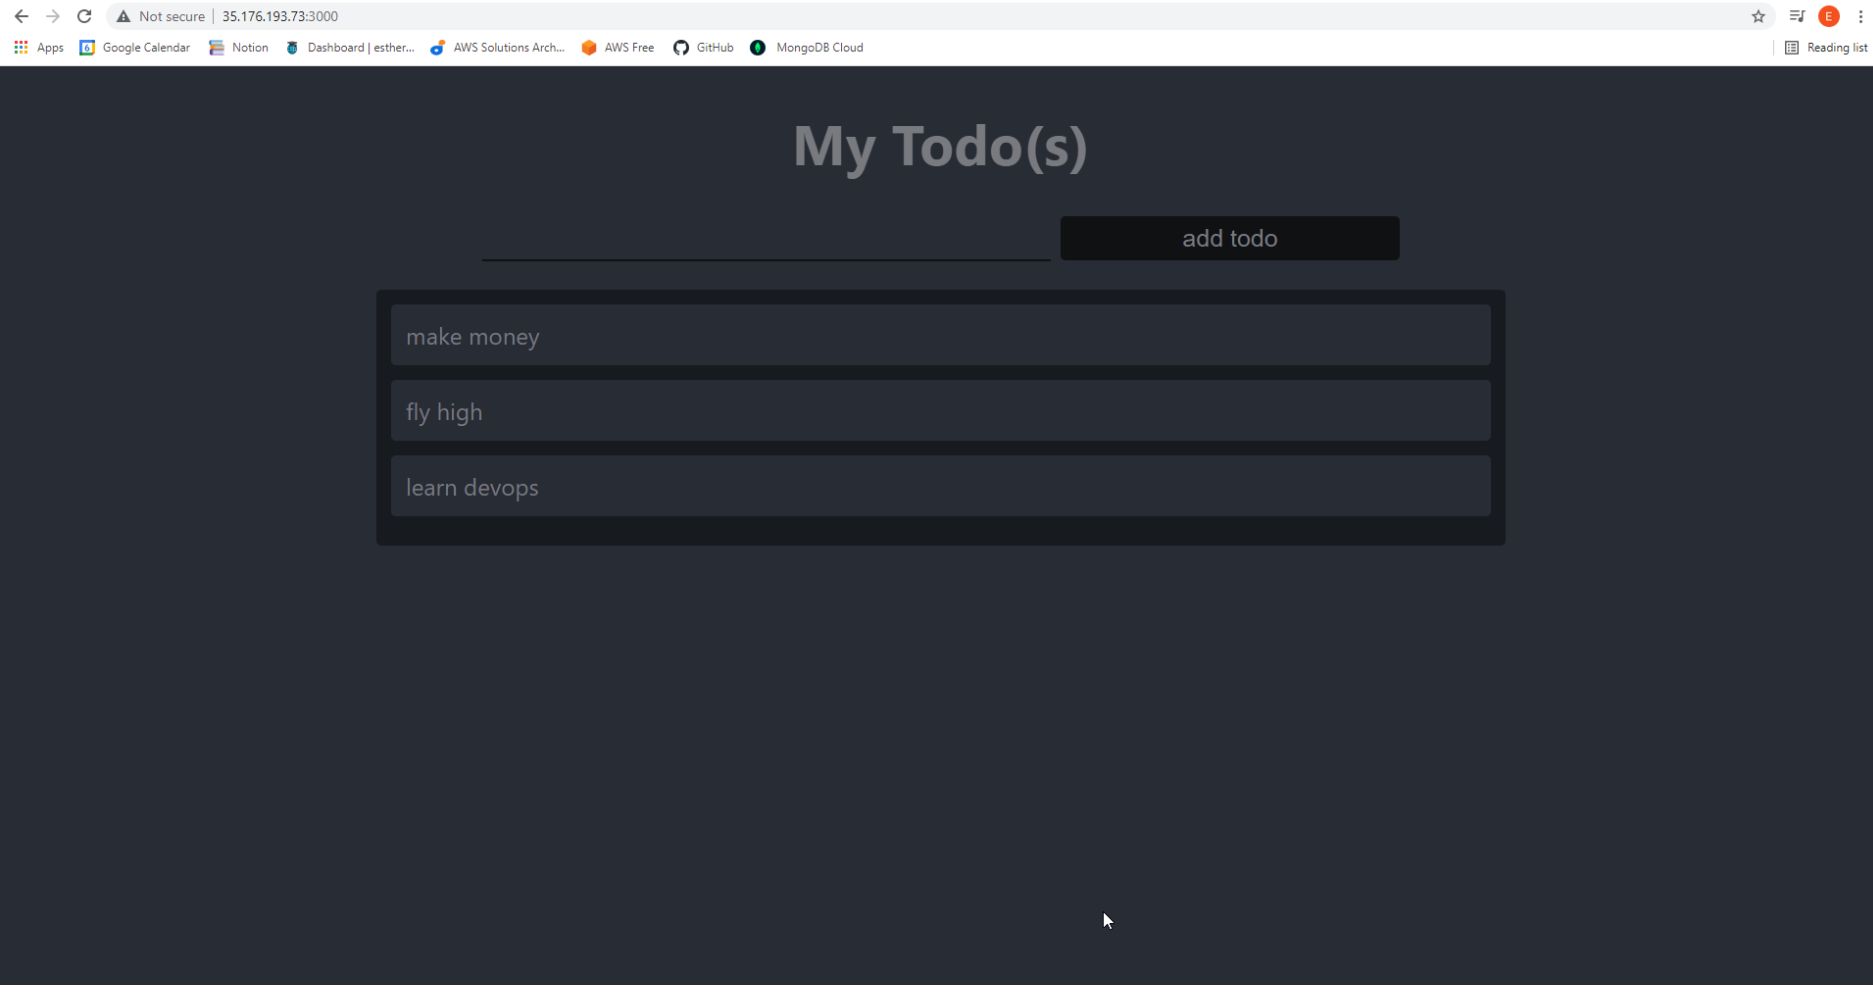
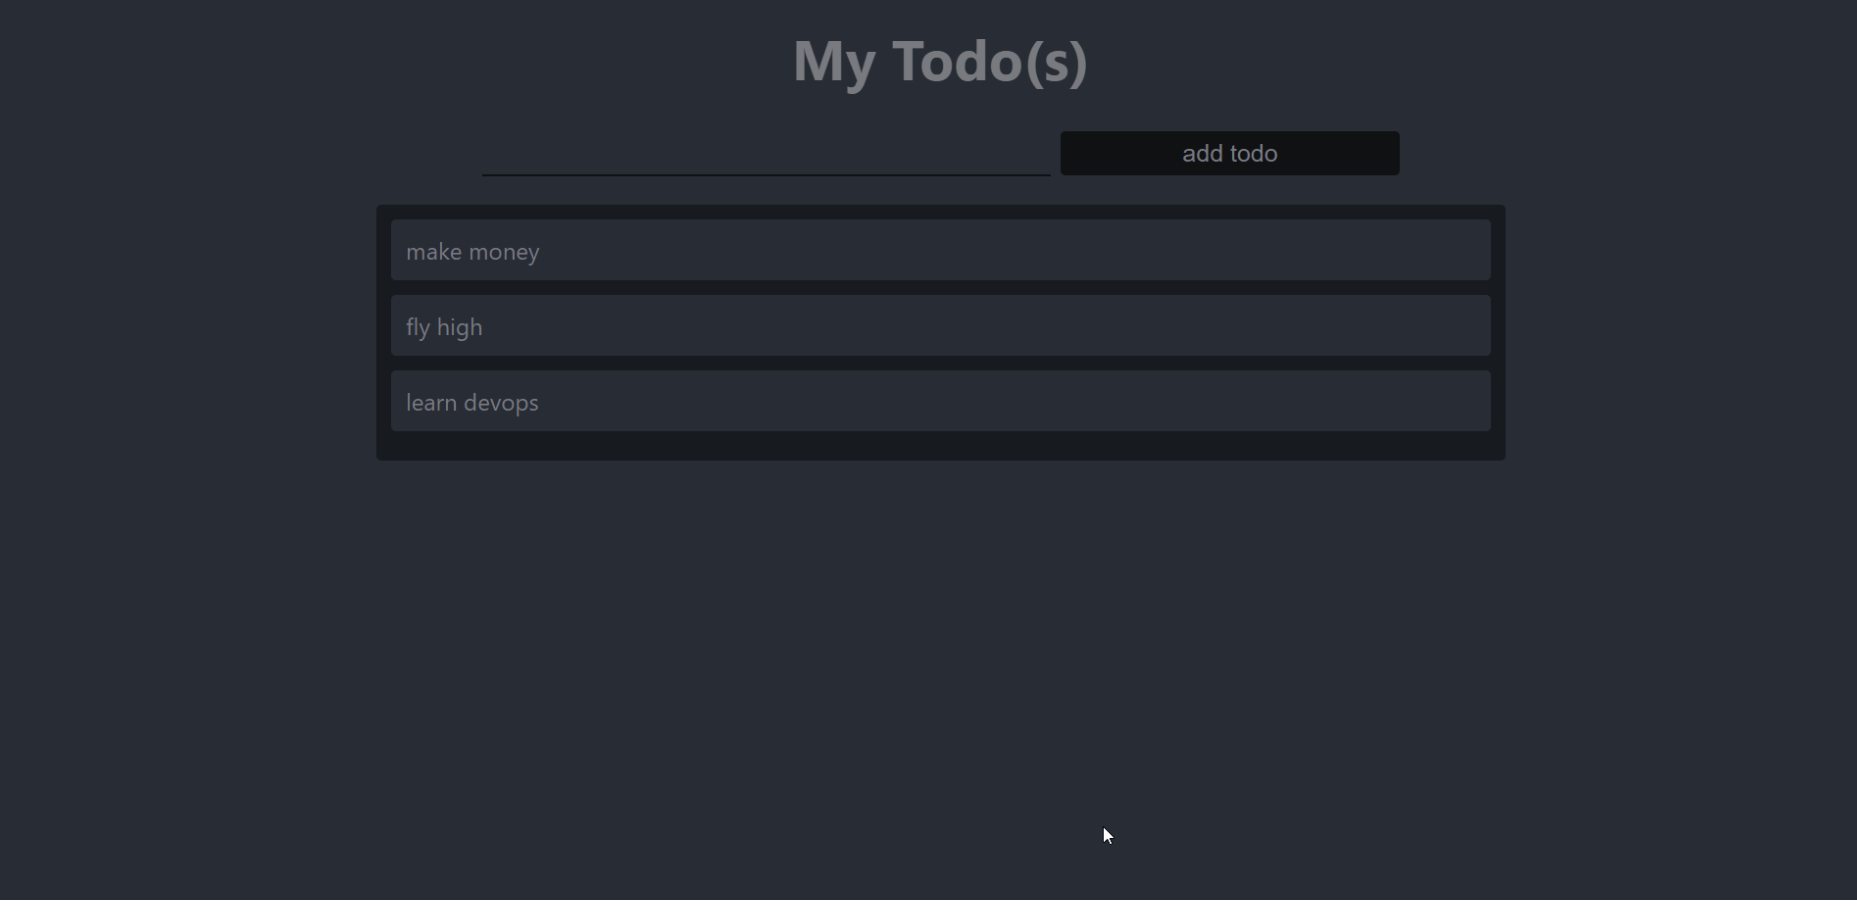
Writing Project 3

diff --git a/Project-3/Project3.md b/Project-3/Project3.md
@@ -59,6 +59,7 @@ npm init
 ```
 
 *Screenshot below*  
+
 ![Pic7a](./images/Pic7a.png)
 
 
@@ -73,6 +74,7 @@ created a file index.js with the command and confirmed that it was made with the
 Installed the dotenv module: npm install dotenv
 
 *Screenshot below*
+
 ![Pic8a](./images/Pic8a.png)
 
 Code below was added into index.js file:
@@ -112,9 +114,11 @@ I confirmed the server was working by running command: node index.js
 created an inbound rule to open TCP port 5000.
 
 *Screenshot below*
+
 ![Pic1a](./images/Pic1a.png)
 
 *Accessed my server’s Public IP on my browser*
+
 ![Pic2a](./images/Pic2a.png)
 
 For each task, I created routes that will define various endpoints that the To-do app will depend on. 
@@ -156,6 +160,7 @@ Due to the app making use of Mongodb, which is a NoSQL database, I created a mod
  installed Mongoose in the Todo Directory: npm install mongoose
 
 *Screenshot below*
+
 ![Pic13a](./images/Pic13a.png)
 
 Created a new modes folder and then changed directory into the newly created ‘models’ folder with the commands: 
@@ -289,16 +294,19 @@ console.log(`Server running on port ${port}`)
 Started the server using the command: node index.js
 
 *Screenshot below*
+
 ![Pic14a](./images/Pic14a.png)
 
 Opened Postman, created a POST request to the API http://<PublicIP-or-PublicDNS>:5000/api/todos. This request sends a new task to my To-Do list so the application could store it in the database.
 
 *screenshot below*
+
 ![Pic15a](./images/Pic15a.png)
 
 Created a GET request to the API on http://<PublicIP-or-PublicDNS>:5000/api/todos. This request retrieves all existing records from out To-do application
 
 *screenshot below*
+
 ![Pic16a](./images/Pic16a.png)
 
 ## FRONTEND CREATION
@@ -311,6 +319,7 @@ The command below was run In the same root directory as the backend code, which 
 npx create-react-app client
 ```
 *Screenshot below*
+
 ![Pic20a](./images/Pic20a.png)
 
 
@@ -323,6 +332,7 @@ Install concurrently: npm install concurrently --save-dev
 Install nodemon: npm install nodemon --save-dev
 
 *Screenshot below*
+
 ![Pic21a](./images/Pic21a.png)
 
 code below was used to partly replace code in the package.json file 
@@ -349,6 +359,7 @@ Entered following command in Todo Directory: npm run dev
 ### Creating React Components
 
  For the Todo app, there will be two stateful components and one stateless component
+
 ![Pic23a](./images/Pic23a.png)
 
  Created components folder insde the src folder and made three files:
@@ -652,5 +663,7 @@ I went into the Todo directory and run command: npm run dev
 
                                                  
 The To-Do app is ready and fully functional. Functionality:creating a task, deleting a task and viewing all your tasks.
+
+*Screenshot below*
 
 ![Pic25a](./images/Pic25a.png)
